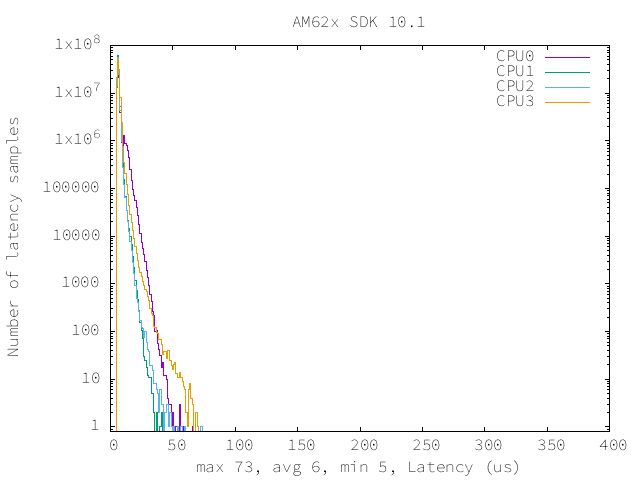
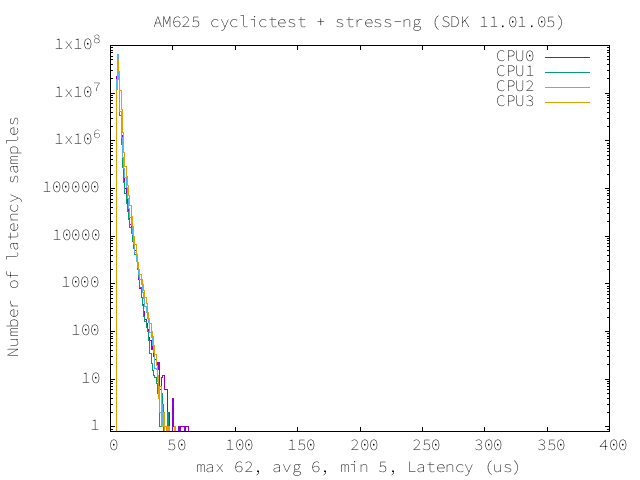
perf(linux): AM62X: Update PREEMPT_RT perf numbers for 11.1
Update the real-time Linux latency numbers for SDK 11.1

diff --git a/source/devices/AM62X/linux/RT_Linux_Performance_Guide.rst b/source/devices/AM62X/linux/RT_Linux_Performance_Guide.rst
@@ -61,13 +61,26 @@ Test commands used for running stress-ng and cyclictest together
    stress-ng --cpu-method=all -c 4 &
    cyclictest -m -Sp80 -D6h -h400 -i200 -M -q
 
-The latencies observed with this SDK are summarized below:
+The following summarizes the latencies observed using the yocto based
+default SDK image using the SK-AM62B-P1_ reference board:
+
+.. _SK-AM62B-P1: https://www.ti.com/tool/SK-AM62B-P1
+
+.. note::
+
+   A known issue in this SDK release is affecting this benchmark.
+   Using OP-TEE's PRNG drivers rather than the hardware accelerated TRNG
+   drivers restores the context switch latencies to the values you see
+   here.
+
+   More information on switching to the PRNG drivers can be found in the
+   Foundational Components section, here :ref:`building-optee-with-prng`
 
 .. csv-table::
    :header: "Latencies","CPU 0","CPU 1","CPU 2","CPU 3"
 
-   "Minimum (usec)","5","5","4","4"
-   "Average (usec)","7","5","6","6"
-   "Maximum (usec)","66","41","73","70"
+   "Minimum (usec)","5","5","5","5"
+   "Average (usec)","6","6","6","6"
+   "Maximum (usec)","62","46","47","52"
 
 .. image:: img/rt-cpu-method-all-latency-histogram.png
